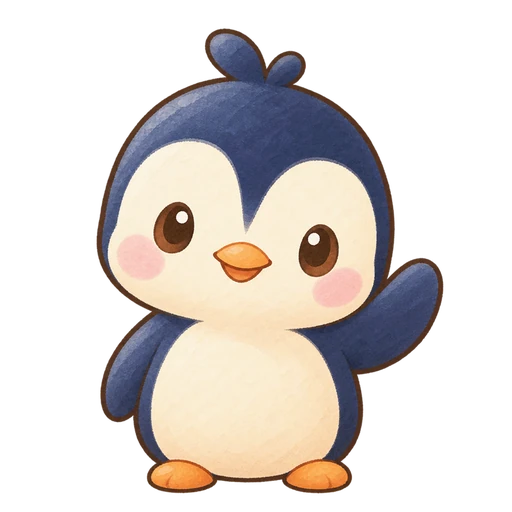
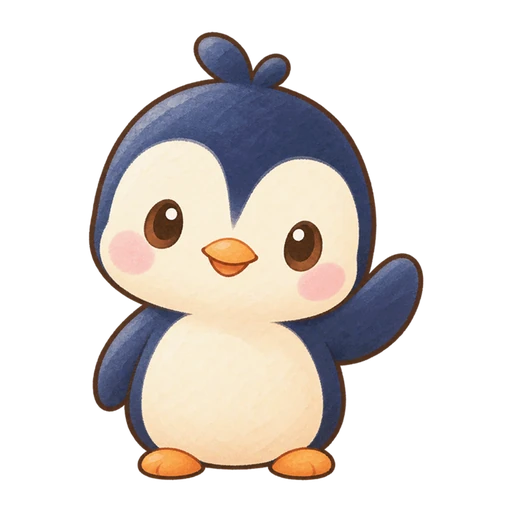
WIP: painted wallpapers, penguin poses, and coin in the shell
Art of Astra stages 4, 5, and 7:
- 6 painted wallpapers in the place of the 5 gradients, 1600 px
- Sleeping penguin on the shut down screen, penguin with a parcel on
  the update popup, penguin of stage 4 on the start screen
- Painted Giggle Coin in the coin counter

State of the tests at this commit: file checks pass (43 of 43), browser
group icons passes (57 of 57). The browser group shell did not run yet
with this change: its test page had a syntax fault.

Changed region(s): [[0.1562, 0.0312, 0.875, 0.9688]]

diff --git a/js/os.js b/js/os.js
@@ -262,7 +262,7 @@ const OS = (() => {
     overlay.className = 'update-popup-overlay';
     overlay.innerHTML = `
       <div class="update-popup">
-        <div class="update-popup-icon"><img src="art/mascot/hello.webp" alt="" draggable="false"></div>
+        <div class="update-popup-icon"><img src="art/mascot/parcel.webp" alt="" draggable="false"></div>
         <div class="update-popup-title">${msg.title}</div>
         <div class="update-popup-body">${msg.body}</div>
         <div class="update-popup-version">${newVer && newVer !== version ? `v${esc(version)} → v${esc(newVer)}${build ? ' (build ' + esc(build) + ')' : ''}` : ''}</div>
@@ -777,11 +777,11 @@ const OS = (() => {
   // look: value for the CSS property background-image
   const WALLPAPERS = [
     { id: 'meadow',  name: 'Meadow',  look: "url('art/wallpapers/meadow.webp')" },
-    { id: 'forest',  name: 'Forest',  look: 'linear-gradient(160deg, #cfe6b8, #4E8B5A)' },
-    { id: 'seaside', name: 'Seaside', look: 'linear-gradient(180deg, #cdeaf7 40%, #4F8FC0)' },
-    { id: 'sunset',  name: 'Sunset',  look: 'linear-gradient(180deg, #F7B5C4, #F4A261 60%, #E76F51)' },
-    { id: 'night',   name: 'Night',   look: 'linear-gradient(180deg, #2B3A67, #6b5fa8)' },
-    { id: 'rain',    name: 'Rain',    look: 'linear-gradient(180deg, #b9c6d6, #8cae9a)' },
+    { id: 'forest',  name: 'Forest',  look: "url('art/wallpapers/forest.webp')" },
+    { id: 'seaside', name: 'Seaside', look: "url('art/wallpapers/seaside.webp')" },
+    { id: 'sunset',  name: 'Sunset',  look: "url('art/wallpapers/sunset.webp')" },
+    { id: 'night',   name: 'Night',   look: "url('art/wallpapers/night.webp')" },
+    { id: 'rain',    name: 'Rain',    look: "url('art/wallpapers/rain.webp')" },
   ];
   // The night theme puts this layer over the wallpaper
   const NIGHT_LAYER = 'linear-gradient(rgba(34, 44, 92, 0.8), rgba(24, 28, 66, 0.88))';
@@ -826,13 +826,13 @@ const OS = (() => {
     if (!overlay) {
       overlay = document.createElement('div');
       overlay.id = 'shutdown-overlay';
-      overlay.innerHTML = '⏻ Shutting down KidsOS...';
+      overlay.innerHTML = 'Shutting down KidsOS...';
       document.body.appendChild(overlay);
     }
     overlay.classList.add('show');
     setTimeout(() => {
       // Installed fullscreen app has no refresh button, so a tap must restart
-      overlay.innerHTML = '<div style="text-align:center">😴 Goodbye!<br><small style="font-size:18px;color:#888">Tap to restart</small></div>';
+      overlay.innerHTML = '<div><img src="art/mascot/sleep.webp" alt="" draggable="false">Goodbye!<br><small>Tap to restart</small></div>';
       overlay.onclick = () => location.reload();
     }, 1500);
   }

diff --git a/shell.css b/shell.css
@@ -88,7 +88,7 @@ body { font-weight: 500; color: var(--k-ink); background: var(--k-bg); }
 }
 /* A long press on a picture must not open the picture menu of the browser (save, share, search).
    The touch goes to the tile or the button that holds the picture. */
-.app-icon, #app-menu-btn img, #hello img, #boot-logo img, .update-popup-icon img, #panel-about img {
+.app-icon, .k-coin, #app-menu-btn img, #hello img, #boot-logo img, #shutdown-overlay img, .update-popup-icon img, #panel-about img {
   pointer-events: none; -webkit-touch-callout: none;
 }
 
@@ -120,11 +120,8 @@ body { font-weight: 500; color: var(--k-ink); background: var(--k-bg); }
 button.k-pill { cursor: pointer; touch-action: manipulation; }
 button.k-pill:active { transform: translateY(2px); box-shadow: 0 2px 0 var(--k-shadow); }
 .k-grow { flex: 1; min-width: 0; }
-.k-coin {
-  display: grid; place-items: center; width: 26px; height: 26px; border-radius: 50%;
-  background: var(--k-honey); border: 3px solid var(--k-line); color: var(--k-on-color);
-  font-size: 12px; line-height: 1;
-}
+/* Giggle Coin, file art/objects/coin.webp */
+.k-coin { display: block; flex: none; width: 32px; height: 32px; }
 .k-clock small { font: 600 14px var(--font); color: var(--k-ink-soft); }
 
 .desktop-icon { cursor: pointer; min-width: 0; }
@@ -214,7 +211,7 @@ button.k-pill:active { transform: translateY(2px); box-shadow: 0 2px 0 var(--k-s
 [data-mode="mouse"] #taskbar-center { flex: 1; display: flex; align-items: center; gap: 6px; padding: 0 8px; overflow: hidden; }
 [data-mode="mouse"] #taskbar-right { display: flex; align-items: center; gap: 10px; }
 [data-mode="mouse"] #taskbar-right .k-pill { height: 38px; padding: 0 12px; font-size: 15px; box-shadow: 0 2px 0 var(--k-shadow); }
-[data-mode="mouse"] #taskbar-right .k-coin { width: 20px; height: 20px; border-width: 2px; font-size: 10px; }
+[data-mode="mouse"] #taskbar-right .k-coin { width: 24px; height: 24px; }
 #app-menu-btn {
   display: flex; align-items: center; gap: 6px;
   padding: 5px 14px 5px 6px; border: 2px solid var(--k-line); border-radius: 12px;
@@ -390,6 +387,7 @@ button.k-pill:active { transform: translateY(2px); box-shadow: 0 2px 0 var(--k-s
 }
 #shutdown-overlay.show { opacity: 1; pointer-events: all; }
 #shutdown-overlay small { font-size: 18px; font-weight: 600; color: #C9BFA8; }
+#shutdown-overlay img { display: block; width: 160px; height: 160px; margin: 0 auto 8px; }
 
 /* ---- Update popup ---- */
 .update-popup-overlay {

diff --git a/index.html b/index.html
@@ -22,7 +22,7 @@
     <header id="top-bar">
       <div class="k-pill" id="hello"><img src="art/mascot/hello.webp" alt="" draggable="false"><span id="hello-text">Hello!</span></div>
       <span class="k-grow"></span>
-      <button class="k-pill k-coins" data-coins aria-label="Giggle Coins"><span class="k-coin">★</span><span class="k-coin-count">50</span></button>
+      <button class="k-pill k-coins" data-coins aria-label="Giggle Coins"><img class="k-coin" src="art/objects/coin.webp" alt="" draggable="false"><span class="k-coin-count">50</span></button>
       <div class="k-pill k-clock"><span class="clock-time">00:00</span><small class="clock-date">Mon 01 Jan</small></div>
     </header>
 
@@ -43,7 +43,7 @@
       </div>
       <div id="taskbar-center"></div>
       <div id="taskbar-right">
-        <button class="k-pill k-coins" data-coins aria-label="Giggle Coins"><span class="k-coin">★</span><span class="k-coin-count">50</span></button>
+        <button class="k-pill k-coins" data-coins aria-label="Giggle Coins"><img class="k-coin" src="art/objects/coin.webp" alt="" draggable="false"><span class="k-coin-count">50</span></button>
         <div id="taskbar-clock">
           <span id="clock-time" class="clock-time">00:00</span>
           <span id="clock-date" class="clock-date">Mon 01 Jan</span>
